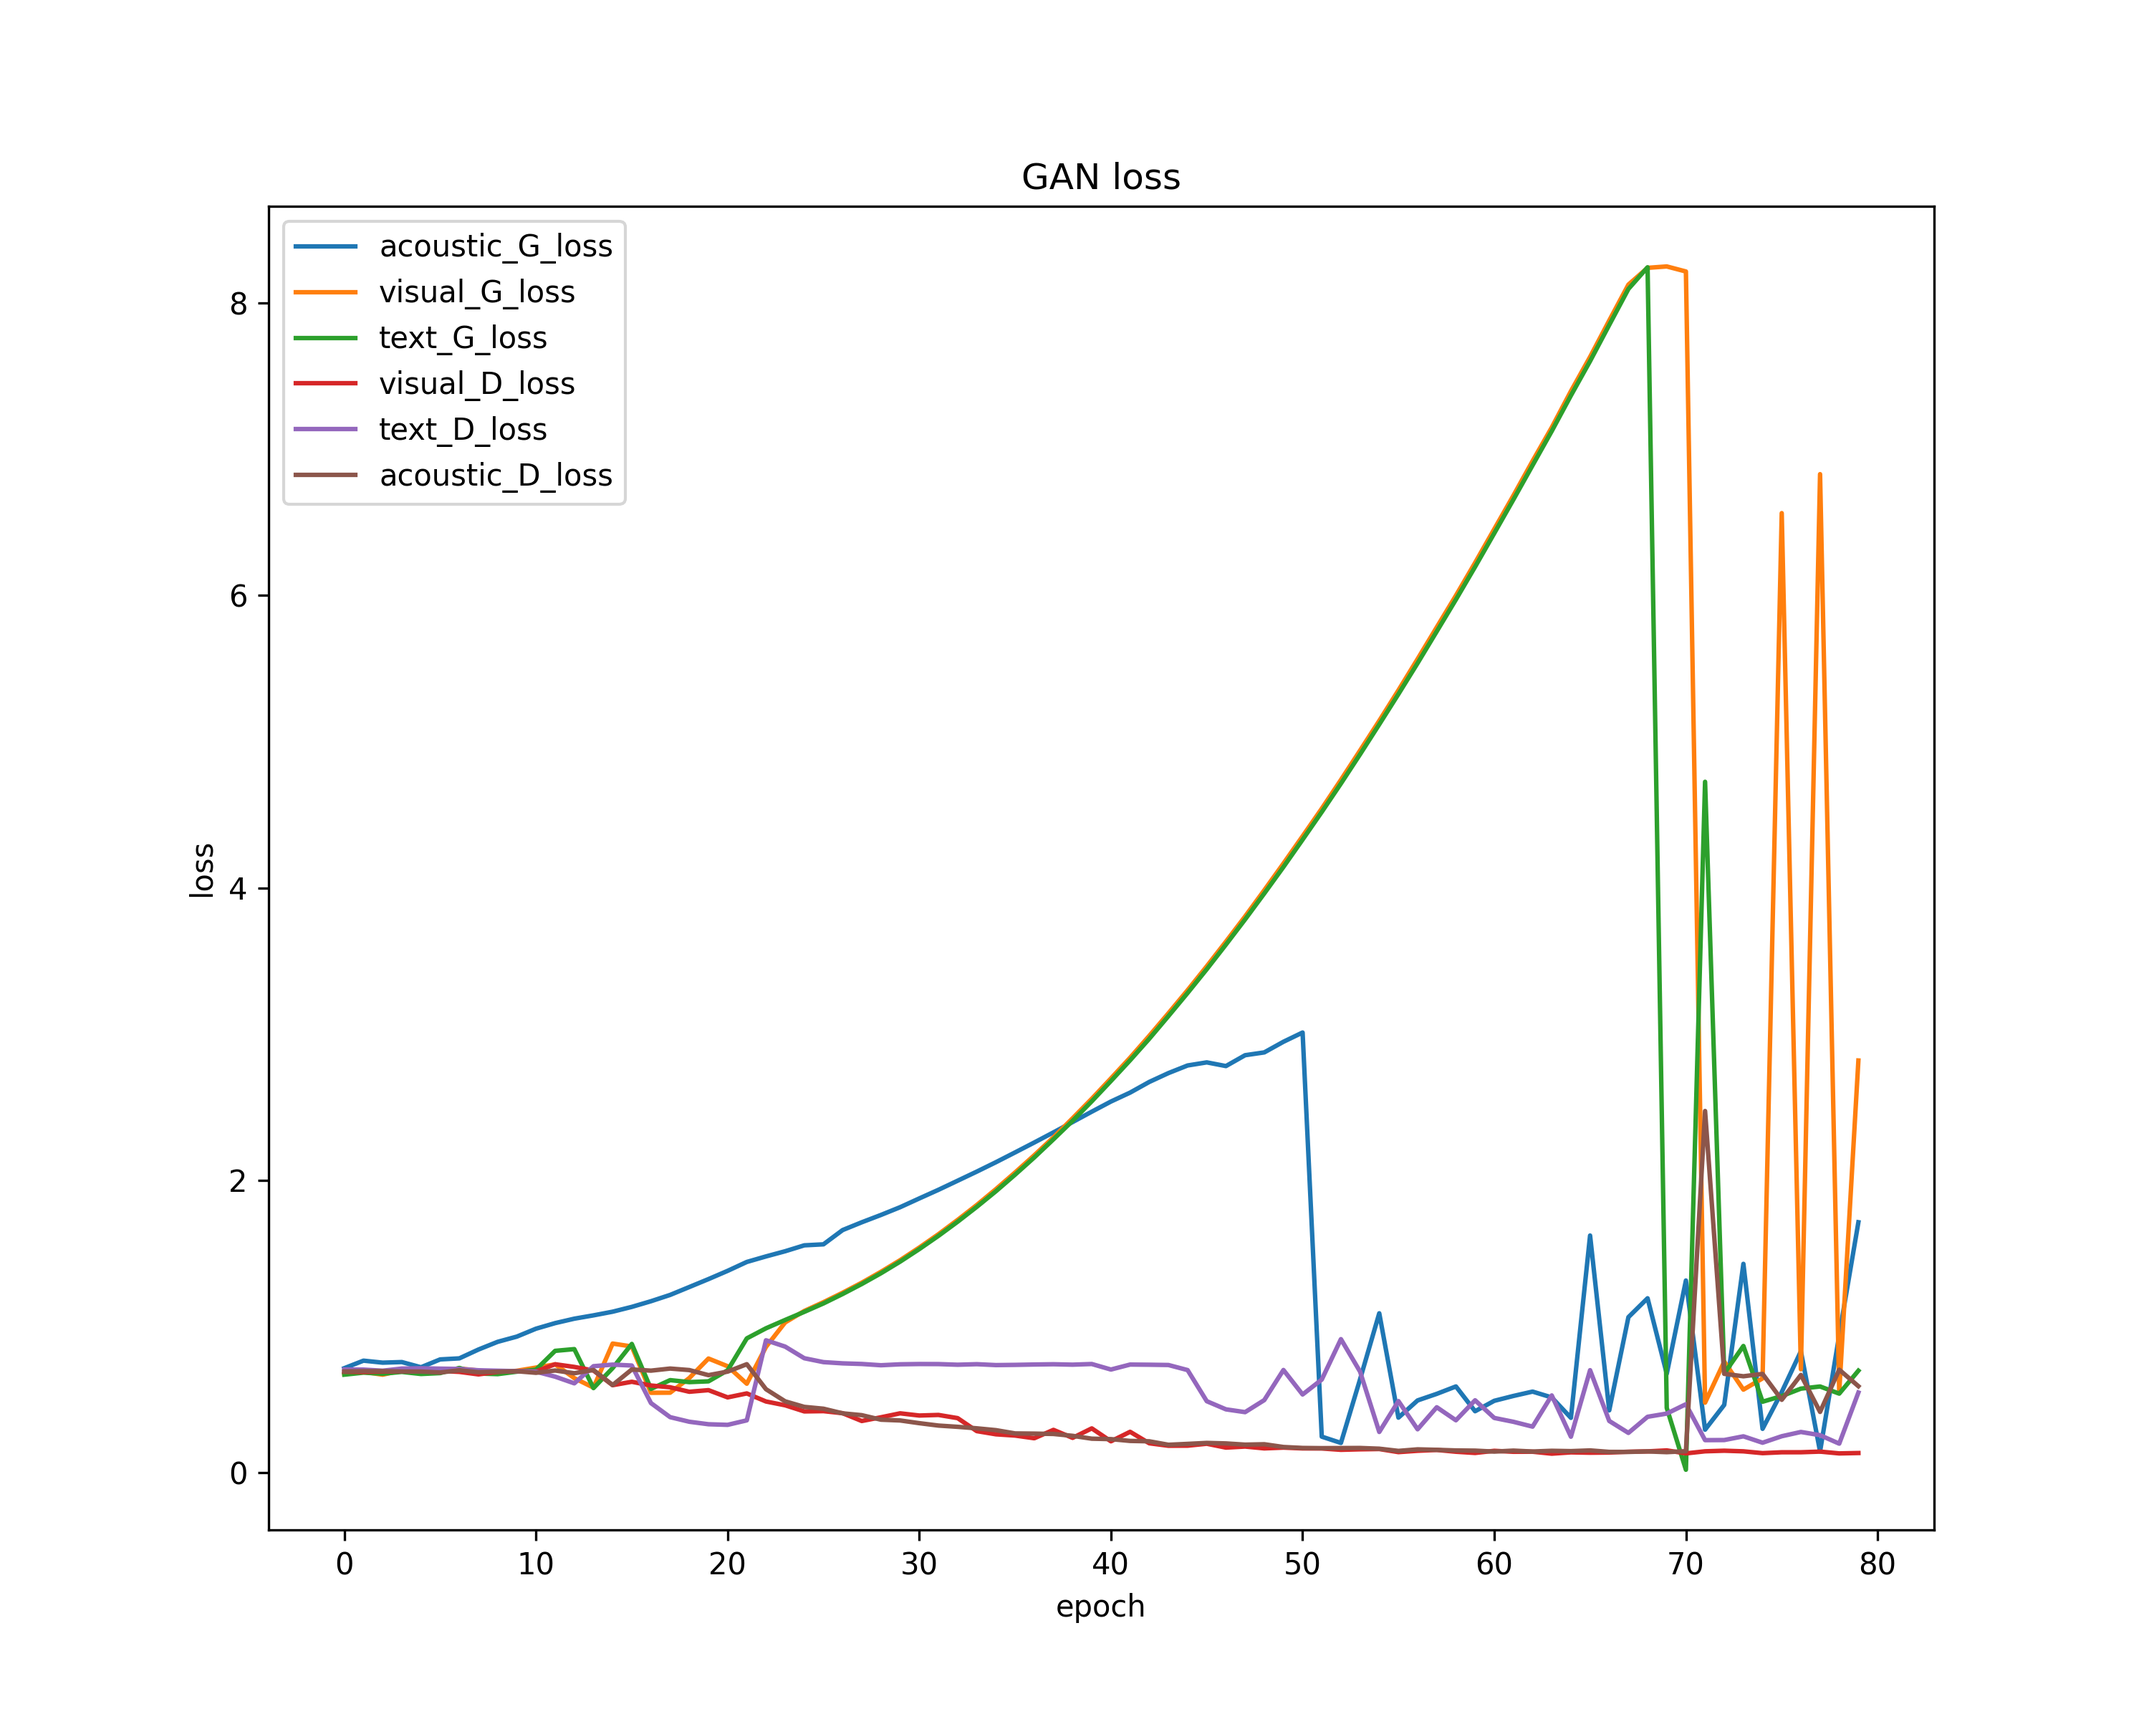
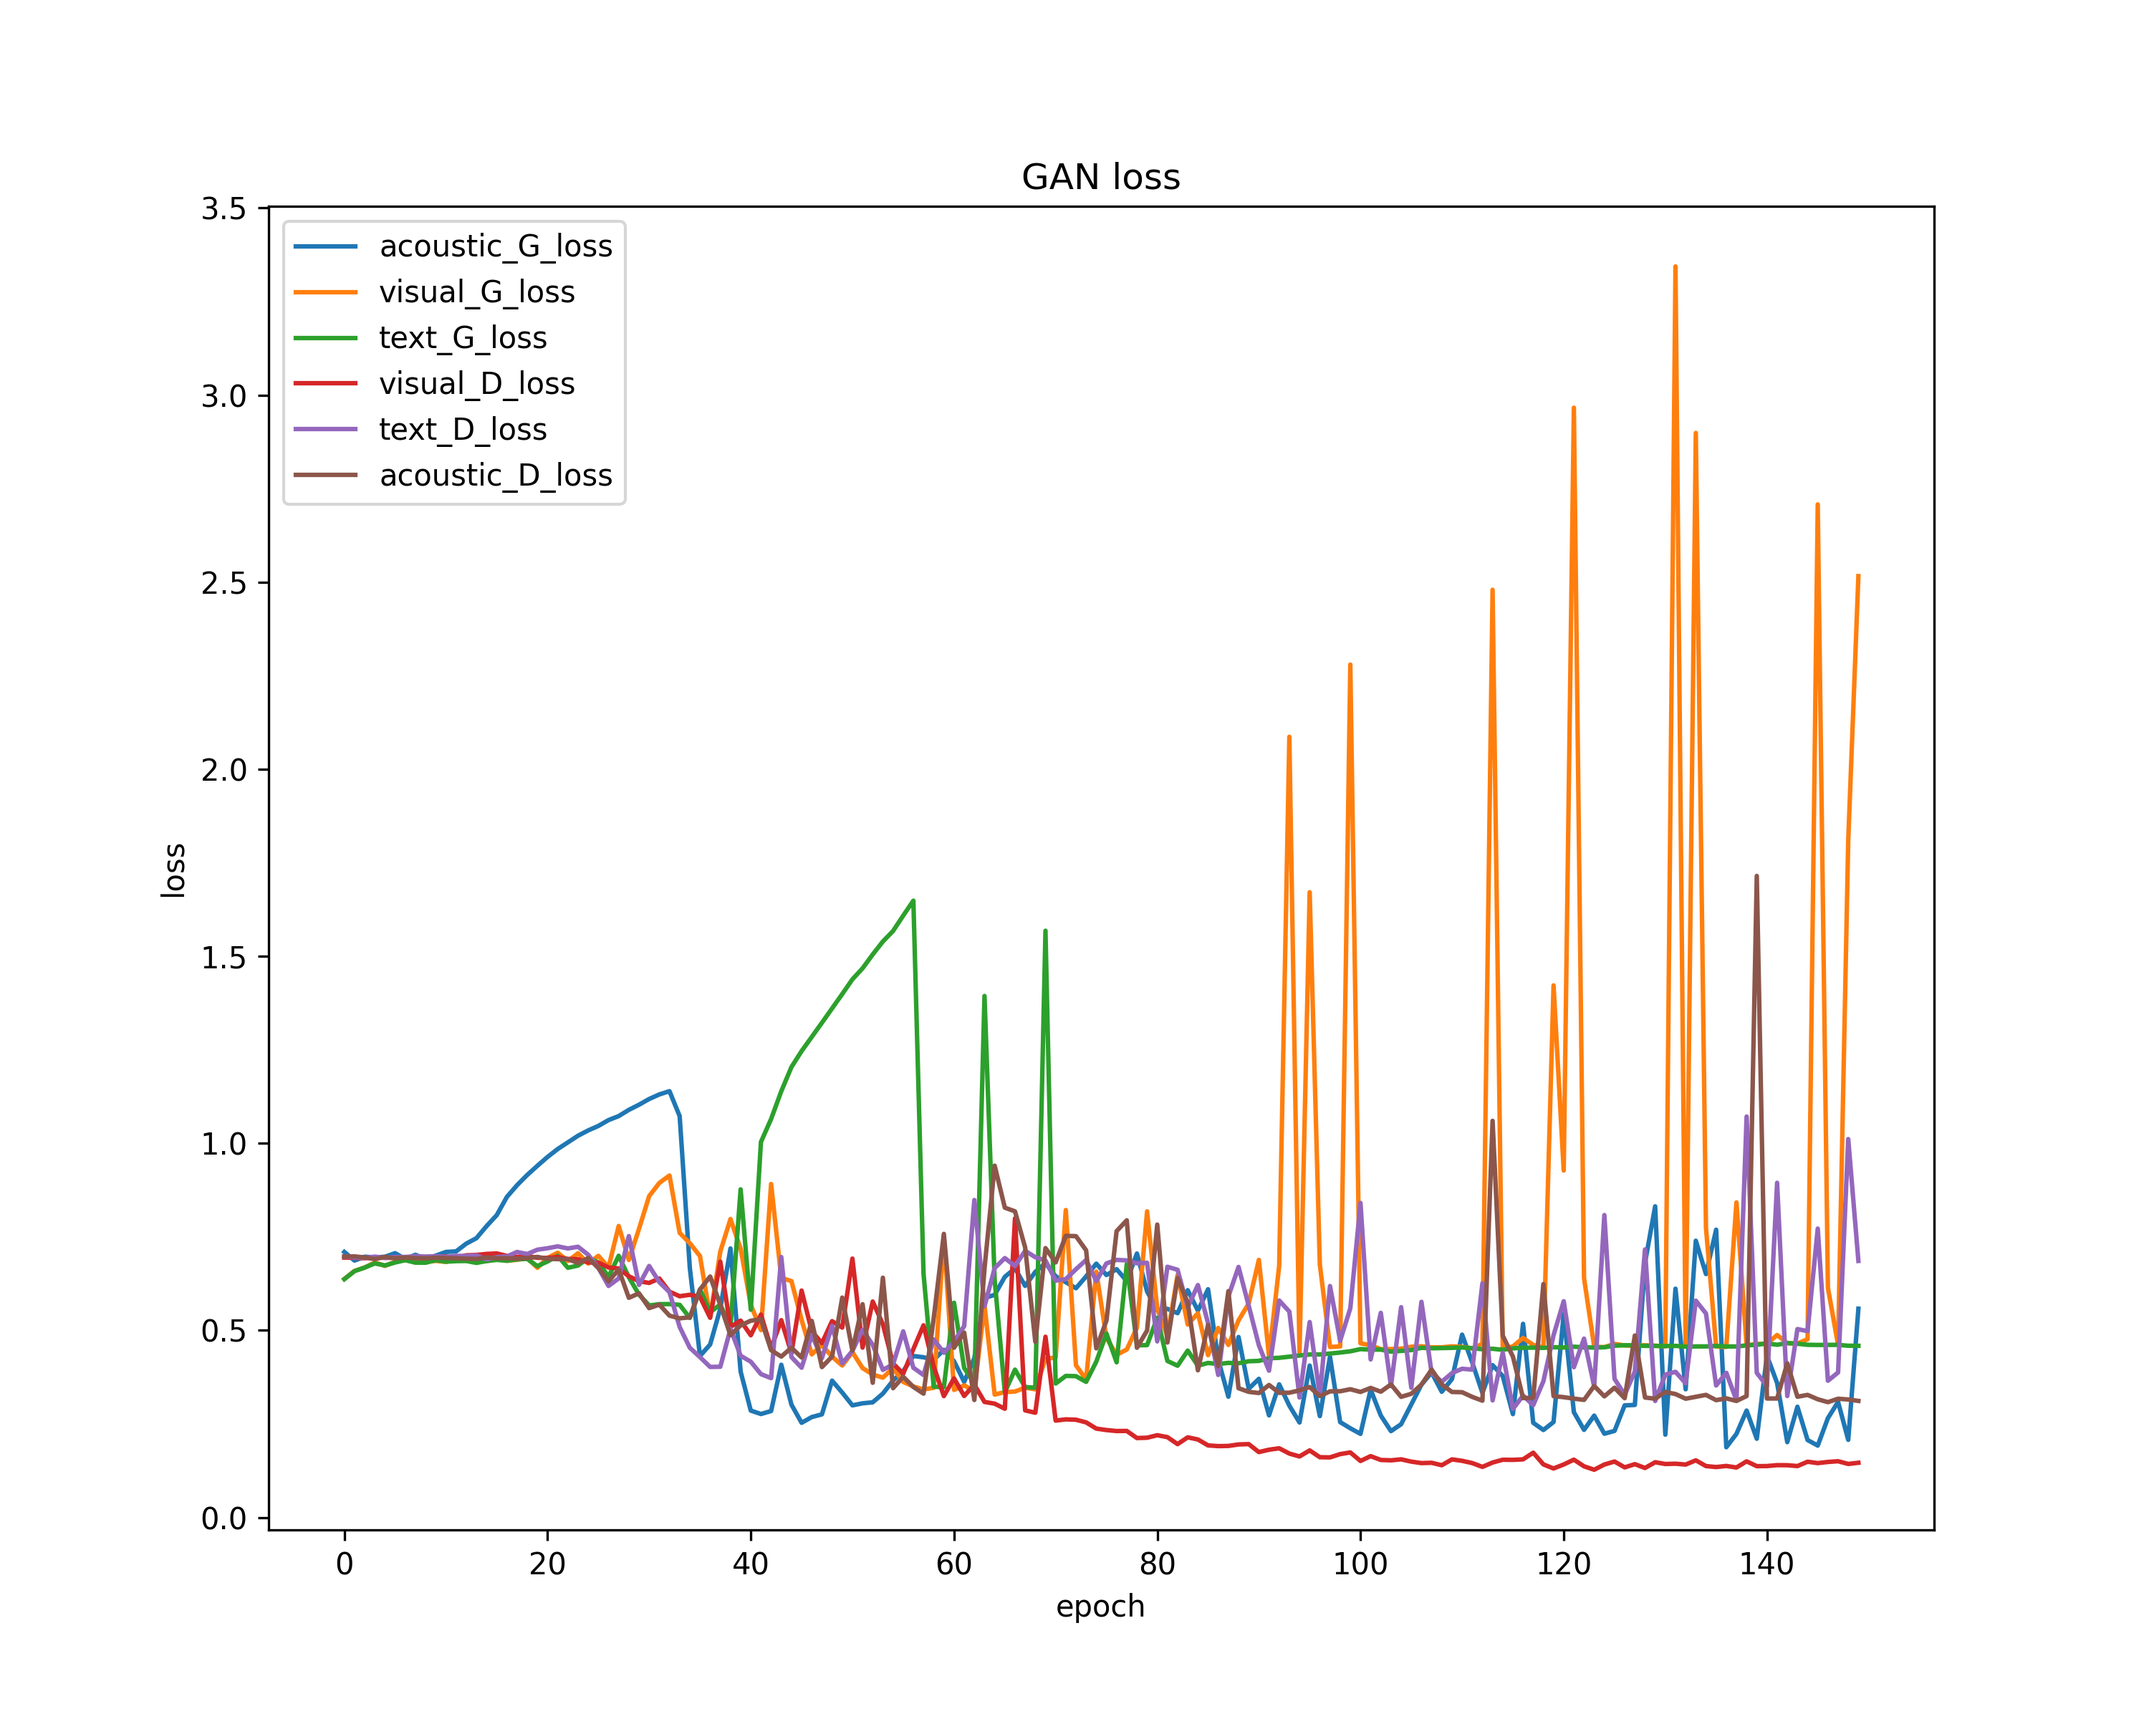
Loss 1.0238 F1-score 59.14

diff --git a/train_IEMOCAP.py b/train_IEMOCAP.py
@@ -290,11 +290,11 @@ def train_GAN(
 
     # Optimizers
     opt_acoustic_G = torch.optim.Adam(acoustic_gen.parameters(), lr=lr, betas=(b1, b2))
-    opt_acoustic_D = torch.optim.Adam(acoustic_disc.parameters(), lr=lr, betas=(b1, b2))
+    opt_acoustic_D = torch.optim.Adam(acoustic_disc.parameters(), lr=lr/2, betas=(b1, b2))
     opt_visual_G = torch.optim.Adam(visual_gen.parameters(), lr=lr, betas=(b1, b2))
-    opt_visual_D = torch.optim.Adam(visual_disc.parameters(), lr=lr, betas=(b1, b2))
-    opt_text_G = torch.optim.Adam(text_gen.parameters(), lr=lr, betas=(b1, b2))
-    opt_text_D = torch.optim.Adam(text_disc.parameters(), lr=lr, betas=(b1, b2))
+    opt_visual_D = torch.optim.Adam(visual_disc.parameters(), lr=lr/2, betas=(b1, b2))
+    opt_text_G = torch.optim.Adam(text_gen.parameters(), lr=lr*1.1, betas=(b1, b2))
+    opt_text_D = torch.optim.Adam(text_disc.parameters(), lr=lr/2, betas=(b1, b2))
 
     # Loss functions
     adversarial_loss = torch.nn.BCELoss()  # 二元交叉熵
@@ -450,10 +450,10 @@ if __name__ == "__main__":
         "--no-cuda", action="store_true", default=False, help="does not use GPU"
     )
     parser.add_argument(
-        "--lr", type=float, default=0.0003, metavar="LR", help="learning rate"
+        "--lr", type=float, default=0.0001, metavar="LR", help="learning rate"
     )
     parser.add_argument(
-        "--l2", type=float, default=0.007, metavar="L2", help="L2 regularization weight"
+        "--l2", type=float, default=0.008, metavar="L2", help="L2 regularization weight"
     )
     parser.add_argument(
         "--dropout", type=float, default=0.6, metavar="dropout", help="dropout rate"
@@ -462,10 +462,10 @@ if __name__ == "__main__":
         "--batch-size", type=int, default=32, metavar="BS", help="batch size"
     )
     parser.add_argument(
-        "--epochs", type=int, default=100, metavar="E", help="number of epochs"
+        "--epochs", type=int, default=150, metavar="E", help="number of epochs"
     )
     parser.add_argument(
-        "--GAN-epochs", type=int, default=80, metavar="E", help="number of GAN epochs"
+        "--GAN-epochs", type=int, default=150, metavar="E", help="number of GAN epochs"
     )
     parser.add_argument(
         "--class-weight", action="store_true", default=True, help="use class weight"
@@ -485,7 +485,7 @@ if __name__ == "__main__":
     parser.add_argument(
         "--use-trained-GAN",
         action="store_true",
-        default=False,
+        default=True,
         help="Use trained GAN",
     )
     args = parser.parse_args()

diff --git a/model.py b/model.py
@@ -921,7 +921,7 @@ class GAN_FFN(nn.Module):
         self.dropout = nn.Dropout(dropout)
         self.smax_fc = nn.Linear(512, n_classes)
 
-        self.fc1 = nn.Linear(100*3, n_classes)
+        self.fc1 = nn.Linear(100, n_classes)
 
     def forward(self, acoustic, visual, text):
         alpha, alpha_f, alpha_b = [], [], []
@@ -935,7 +935,8 @@ class GAN_FFN(nn.Module):
 
         D_h = acoustic_fusion.size(-1) # 100
 
-        fusion = torch.cat([acoustic_fusion, visual_fusion, text_fusion], dim=2) # (seq_len, batch_size, 3*D_h)
+        # fusion = torch.cat([acoustic_fusion, visual_fusion, text_fusion], dim=2) # (seq_len, batch_size, 3*D_h)
+        fusion = acoustic_fusion + visual_fusion + text_fusion # 如果只用这个有59.14
 
         # fusion_context, _ = self.lstm(fusion) # (seq_len, batch_size, 512))
         # fusion_context = self.gelu(fusion_context) # (seq_len, batch_size, 512)
